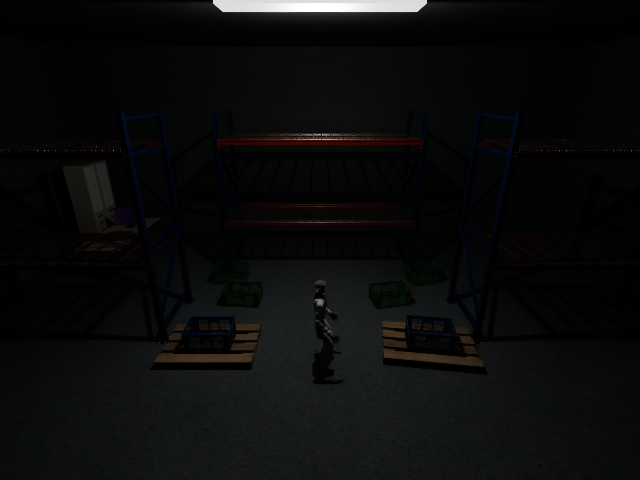
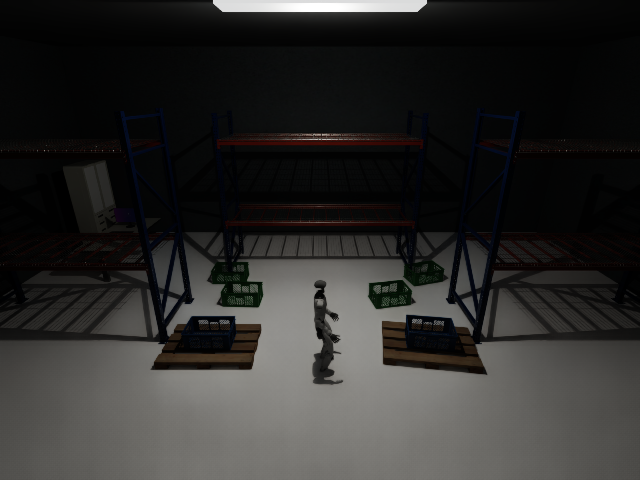
Restore the shared plain floor in warehouse B

diff --git a/README.md b/README.md
@@ -61,7 +61,7 @@ and lights are fixed; robot roots move sideways with fixed joints. All
 replicas use the same motion phase. HyperLux uses AA1 and batch 128; Warp
 uses native RGB. The Warp timings below predate the blue-sky update and
 used a black background. The warehouse and outdoor HyperLux/RTX measurements
-also predate a box-texture fix. Warehouse A now uses a plain floor in all three
+also predate a box-texture fix. Both warehouses now use a plain floor in all three
 renderers. The affected results are being refreshed.
 
 Throughput is aggregate images per second. Speedup is HyperLux / Warp.
@@ -150,6 +150,8 @@ All three renderers use the same plain floor and the original fixed lamp.
 | Moving robot | ![Warehouse A: HyperLux, moving robot](docs/media/windowless_warehouse_a/hyperlux-moving-robot.gif) | ![Warehouse A: MuJoCo Warp, moving robot](docs/media/windowless_warehouse_a/mujoco_warp-moving-robot.gif) | ![Warehouse A: Isaac RTX, moving robot](docs/media/windowless_warehouse_a/rtx-moving-robot.gif) |
 
 ### Warehouse B
+
+All three renderers use the same plain floor and the original fixed lamp.
 
 | View | HyperLux | MuJoCo Warp | Isaac RTX |
 | --- | --- | --- | --- |
